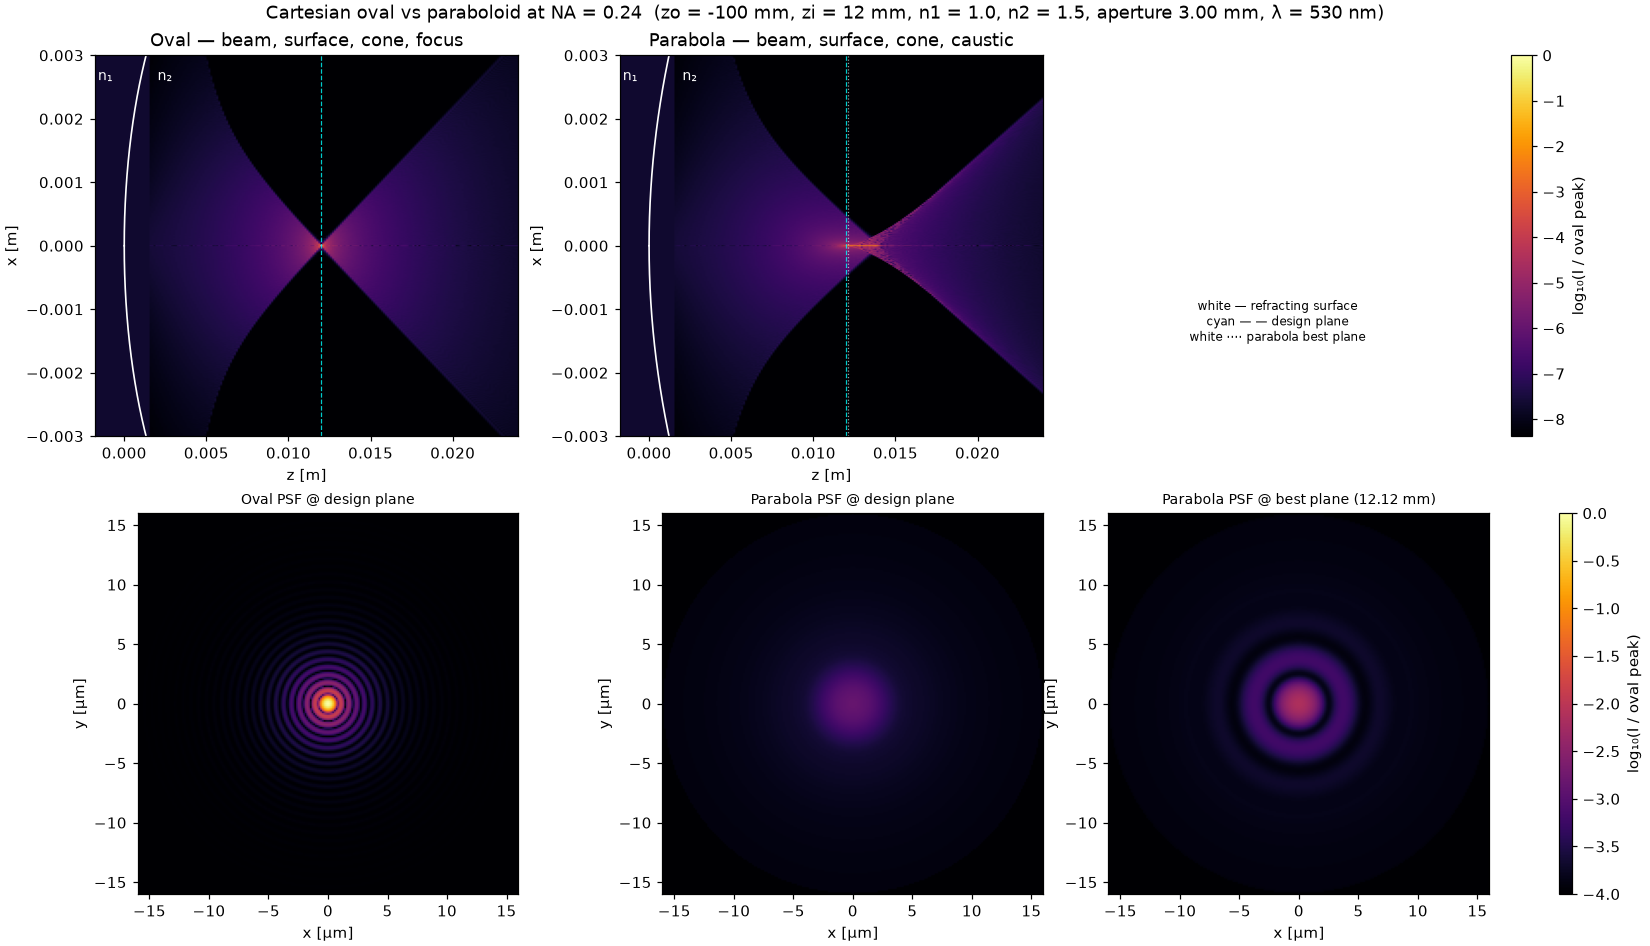
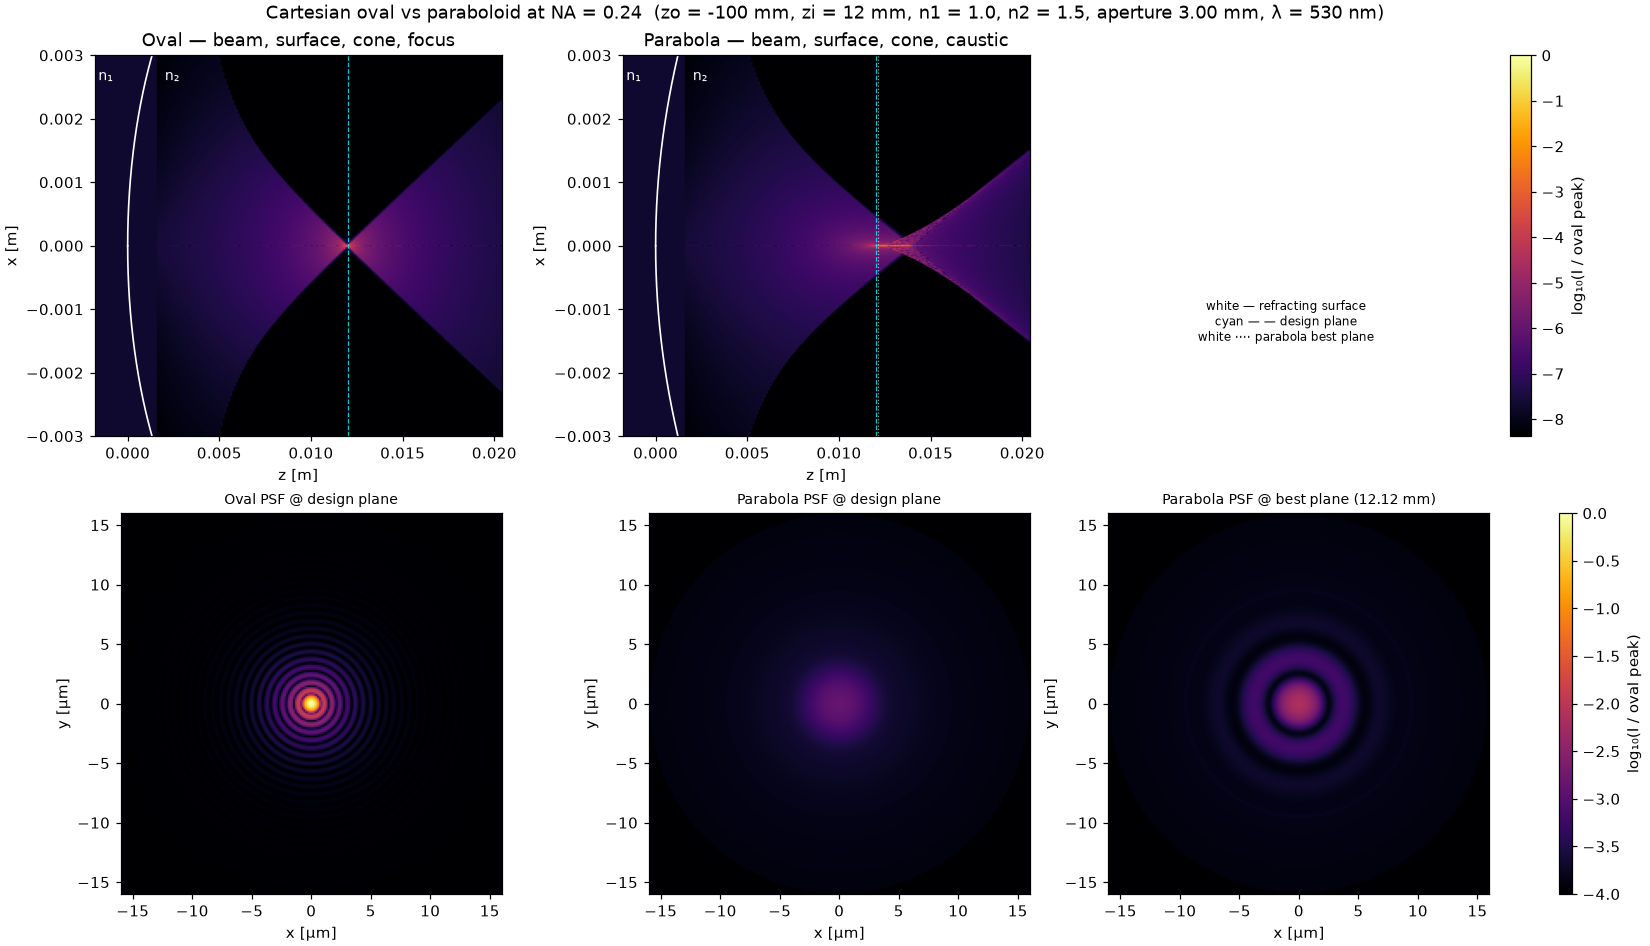
Dial back the past-focus margin: 2.0*zi was too much, 1.7*zi is right
The previous widening (1.5*zi/zi+0.6*dz -> 2.0*zi) overshot -- scale back to
1.7*zi in both scripts, a modest amount more past-focus room than the
original framing without dominating the frame.

diff --git a/examples/cartesian_vs_parabolic_aberration.py b/examples/cartesian_vs_parabolic_aberration.py
@@ -173,7 +173,7 @@ def main() -> None:
     # the shared oval-peak scale (checked against the geometric (R/w)² flux law).
     sag_max = max(z_o.max(), z_p.max())
     z_join = 1.15 * sag_max  # first plane the surface integral can populate
-    zc = np.linspace(-0.15 * ZI, 2.0 * ZI, 216)
+    zc = np.linspace(-0.15 * ZI, 1.7 * ZI, 216)
     rc = np.linspace(0.0, R, 260)
     tc = np.concatenate([-rc[::-1], rc[1:]])  # mirror to a symmetric x axis
 

diff --git a/examples/oval_vs_parabola_apertures.py b/examples/oval_vs_parabola_apertures.py
@@ -89,7 +89,7 @@ def render_row(oval, parab, O, R_target):
     # (see cartesian_vs_parabolic_aberration.py for the incident-wave-units note).
     sag_max = max(z_o.max(), z_p.max())
     z_join = 1.15 * sag_max
-    zc = np.linspace(-0.15 * ZI, 2.0 * ZI, 170)
+    zc = np.linspace(-0.15 * ZI, 1.7 * ZI, 170)
     rc = np.linspace(0.0, 1.05 * R, 170)
     tc = np.concatenate([-rc[::-1], rc[1:]])
 
